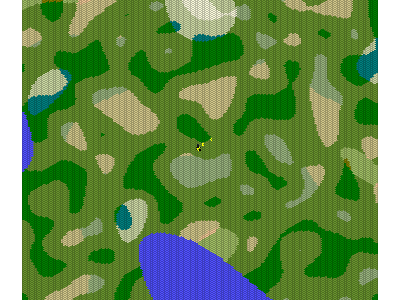
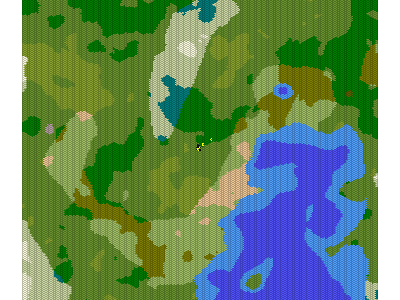
improved generator
more noisy, creating more natural effects. all biomes are larger. humid biomes are still rare but not nearly so much as before.

diff --git a/src/main/java/botmanager/frostbalance/grid/biome/Biome.kt b/src/main/java/botmanager/frostbalance/grid/biome/Biome.kt
@@ -1,0 +1,41 @@
+package botmanager.frostbalance.grid.biome
+
+import java.awt.Color
+
+enum class Biome(var color: Color) {
+
+    //sea
+    SEA(Color(80, 80, 255)),
+    ICE(Color(192, 255, 255)),
+    STORMY_SEA(Color(60, 0, 200)),
+
+    //coast
+    SHALLOW_WATER(Color(80, 160, 255)),
+    ISLAND(Color(80, 255, 80)),
+    BEACH(Color(255, 255, 80)),
+
+    //mountain
+    SNOW_PEAK(Color(220, 200, 240)),
+    ROCKY(Color(180, 160, 160)),
+    ALP(Color(150, 180, 150)),
+    MESA(Color(192, 128, 64)),
+
+    //cold
+    TUNDRA(Color(0xFAFADC)),
+    SNOW_FIELD(Color(0xCCD9A4)),
+    TAIGA(Color(0x008080)),
+    MARSH(Color(0x606080)),
+
+    //moderate
+    TEMPERATE_DESERT(Color(0x89A32E)),
+    GRASSLANDS(Color(0x69932E)),
+    FOREST(Color(0x008000)),
+    SWAMP(Color(0x606000)),
+
+    //hot
+    DESERT(Color(0xF0C896)),
+    PRAIRIE(Color(0xA0BE64)),
+    SAVANNA(Color(0x808000)),
+    JUNGLE(Color(0x30A050));
+
+}

diff --git a/src/main/java/botmanager/frostbalance/grid/biome/BiomeData.java b/src/main/java/botmanager/frostbalance/grid/biome/BiomeData.java
@@ -6,16 +6,34 @@ import botmanager.frostbalance.grid.coordinate.Hex;
 
 public class BiomeData implements Containable<Tile> {
 
+    private static final double OFFSET_SEVERITY = 3.0;
+
     transient private Tile tile;
 
-    //heat ranges from 0 to 1. it is dependent on x and y.
+    //heat ranges from 0 to 1.
     private transient double temperature = 0;
 
-    //depth ranges from 0 to 1. it is dependent on y and z.
+    //heat offset to make transitions less artificial ranges from -0.1 to 0.1, normalized.
+    private transient double temperatureOffset = 0;
+    private static final double SHADE_MAGNITUDE = 1.0 / 6;
+    private static final double SHADE_SCALE = 1.0;
+
+
+    //depth ranges from 0 to 1.
     private transient double elevation = 0;
 
-    //humidity ranges from 0 to 1. it is dependent on z and x.
+    //elevation offset (for lakes, islands, hills and valleys) ranges from -0.2 to 0.2, normalized.
+    private transient double elevationOffset = 0;
+    private static final double BUMP_MAGNITUDE = 1.0 / 6;
+    private static final double BUMP_SCALE = 1.0;
+
+    //humidity ranges from 0 to 1.
     private transient double baseHumidity = 0;
+
+    //humidity offset to make transitions less artificial ranges from -0.4 to 0.4, normalized.
+    private transient double humidityOffset = 0;
+    private static final double WEATHER_MAGNITUDE = 2.0 / 7;
+    private static final double WEATHER_SCALE = 0.5;
 
     public BiomeData(Tile tile) {
 
@@ -23,50 +41,98 @@ public class BiomeData implements Containable<Tile> {
 
     }
 
-    private static final double TEMPERATURE_SCALE = 3.0; //changes slower
+    private static final double TEMPERATURE_SCALE = 3.50; //changes slower
 
     private double generateHeat() {
         return simplexTile(tile.getLocation().drawX() / Hex.X_SCALE / TEMPERATURE_SCALE,
                 tile.getLocation().drawY() / Hex.Y_SCALE / TEMPERATURE_SCALE,
-                -1, 500);
+                -1);
     }
-
     private static final double ELEVATION_SCALE = 10.0; //changes much slower
 
     private double generateElevation() {
         return simplexTile(tile.getLocation().drawX() / Hex.X_SCALE / ELEVATION_SCALE,
                 tile.getLocation().drawY() / Hex.Y_SCALE / ELEVATION_SCALE,
-                0, -500);
+                0);
     }
 
-    private static final double HUMIDITY_SCALE = 1.0; //changes fastest
+    private static final double HUMIDITY_SCALE = 1.8; //changes fastest
 
     private double generateHumidity() {
         return simplexTile(tile.getLocation().drawX() / Hex.X_SCALE / HUMIDITY_SCALE,
                 tile.getLocation().drawY() / Hex.Y_SCALE / HUMIDITY_SCALE,
-                1, 0);
+                1);
     }
 
 
-    private double simplexTile(double coord1, double coord2, long seed, double offset) {
+    private double generateElevationOffset() {
+        return Math.pow(simplexTile(tile.getLocation().drawX() / Hex.X_SCALE / BUMP_SCALE,
+                tile.getLocation().drawY() / Hex.Y_SCALE / BUMP_SCALE,
+                2) * 2 - 1, OFFSET_SEVERITY) + 1.0 / 2;
+    }
+
+
+    private double generateHeatOffset() {
+        return Math.pow(simplexTile(tile.getLocation().drawX() / Hex.X_SCALE / SHADE_SCALE,
+                tile.getLocation().drawY() / Hex.Y_SCALE / SHADE_SCALE,
+                3) * 2 - 1, OFFSET_SEVERITY) + 1.0 / 2;
+    }
+
+    private double generateHumidityOffset() {
+        return Math.pow(simplexTile(tile.getLocation().drawX() / Hex.X_SCALE / WEATHER_SCALE,
+                tile.getLocation().drawY() / Hex.Y_SCALE / WEATHER_SCALE,
+                4) * 2 - 1, OFFSET_SEVERITY) + 1.0 / 2;
+    }
+
+    private double simplexTile(double coord1, double coord2, long seed) {
         OpenSimplexNoise noise = new OpenSimplexNoise(seed);
         double ZOOM_AMOUNT = 1.0 / 16;
-        return (noise.eval(coord1 * ZOOM_AMOUNT + offset, coord2 * ZOOM_AMOUNT + offset) + 1)
+        return (noise.eval(coord1 * ZOOM_AMOUNT, coord2 * ZOOM_AMOUNT) + 1)
                 / 2.0;
     }
 
-    public double getTemperature() {
+    public double getTemperatureOffset() {
+        return temperatureOffset == 0 ? temperatureOffset = generateHeatOffset() : temperatureOffset;
+    }
+
+    public double getHumidityOffset() {
+        return humidityOffset == 0 ? humidityOffset = generateHumidityOffset() : humidityOffset;
+    }
+
+    public double getBaseTemperature() {
         return temperature == 0 ? temperature = generateHeat() : temperature;
     }
 
-    public double getElevation() {
+    public double getTemperature() {
+        return getBaseTemperature() * (1 - SHADE_MAGNITUDE) + getTemperatureOffset() * SHADE_MAGNITUDE;
+    }
+
+    public double getBaseElevation() {
         return elevation == 0 ? elevation = generateElevation() : elevation;
     }
 
+    public double getElevationOffset() {
+        return elevationOffset == 0 ? elevationOffset = generateElevationOffset() : elevationOffset;
+    }
+
+    public double getElevation() {
+        return getBaseElevation() * (1 - BUMP_MAGNITUDE) + getElevationOffset() * BUMP_MAGNITUDE;
+    }
+
     public double getHumidity() {
-        return (baseHumidity == 0 ? baseHumidity = generateHumidity() : baseHumidity) * 0.7
-                + (0.5 - getTemperature()) * 0.15 //evaporation
-                + (0.5 - getElevation()) * 0.15; //water falloff
+        return ((baseHumidity == 0 ? baseHumidity = generateHumidity() : baseHumidity) * 0.7
+                + (1 - intemperance()) * 0.15 //evaporation
+                - (getElevation()) * 0.15) //water falloff
+                 * (1 - WEATHER_MAGNITUDE)
+                + getHumidityOffset() * WEATHER_MAGNITUDE;
+    }
+
+    /**
+     * Gets how far the temperature is from a moderate 0.5.
+     * @return A value between 1 and 0; 0 is temperate, 1 is intemperate.
+     */
+    private double intemperance() {
+        return Math.abs(getTemperature() * 2 - 1);
     }
 
     @Override
@@ -76,50 +142,51 @@ public class BiomeData implements Containable<Tile> {
 
     public Biome getBiome() {
         if (getElevation() > 0.85) {
-            if (getTemperature() > 0.8) {
+            if (getTemperature() > 0.7) {
                 return Biome.MESA;
             } else if (getTemperature() > 0.3) {
-                return Biome.MOUNTAIN;
+                return Biome.ROCKY;
+            } else if (getHumidity() > 0.5) {
+                return Biome.ALP;
             } else {
-                return Biome.SNOW_MOUNTAIN;
+                return Biome.SNOW_PEAK;
             }
-        } else if (getElevation() > 0.3) {
-            if (getTemperature() < 0.2) {
-                if (getHumidity() < 0.2) {
+        } else if (getElevation() > 0.35) {
+
+            //special cases
+            //if (getBaseElevation() < 0.2) {
+            //    return Biome.ISLAND;
+            //}
+            //if (getBaseElevation() < 0.3) {
+            //    return Biome.BEACH;
+            //}
+
+            if (getTemperature() < 0.3) {
+                if (getHumidity() < 0.25) {
                     return Biome.TUNDRA;
                 } else if (getHumidity() < 0.5) {
                     return Biome.SNOW_FIELD;
-                } else if (getHumidity() < 0.8) {
+                } else if (getHumidity() < 0.75) {
                     return Biome.TAIGA;
                 } else {
                     return Biome.MARSH;
                 }
-            } else if (getTemperature() < 0.5) {
-                if (getHumidity() < 0.2) {
-                    return Biome.DRY_GRASSLANDS;
+            } else if (getTemperature() < 0.7) {
+                if (getHumidity() < 0.25) {
+                    return Biome.TEMPERATE_DESERT;
                 } else if (getHumidity() < 0.5) {
                     return Biome.GRASSLANDS;
-                } else if (getHumidity() < 0.8) {
+                } else if (getHumidity() < 0.75) {
                     return Biome.FOREST;
                 } else {
                     return Biome.SWAMP;
                 }
-            } else if (getTemperature() < 0.8) {
-                if (getHumidity() < 0.2) {
-                    return Biome.DESERT;
-                } if (getHumidity() < 0.5) {
-                    return Biome.GRASSLANDS;
-                } else if (getHumidity() < 0.8) {
-                    return Biome.FOREST;
-                } else {
-                    return Biome.RAINFOREST;
-                }
             } else {
-                if (getHumidity() < 0.2) {
-                    return Biome.ARID_DESERT;
+                if (getHumidity() < 0.25) {
+                    return Biome.DESERT;
                 } else if (getHumidity() < 0.5) {
                     return Biome.PRAIRIE;
-                } else if (getHumidity() < 0.8) {
+                } else if (getHumidity() < 0.75) {
                     return Biome.SAVANNA;
                 } else {
                     return Biome.JUNGLE;
@@ -131,6 +198,9 @@ public class BiomeData implements Containable<Tile> {
             } else if (getHumidity() > 0.8 && getTemperature() > 0.6) {
                 return Biome.STORMY_SEA;
             } else {
+                if (getElevation() > 0.30) {
+                    return Biome.SHALLOW_WATER;
+                }
                 return Biome.SEA;
             }
         }
